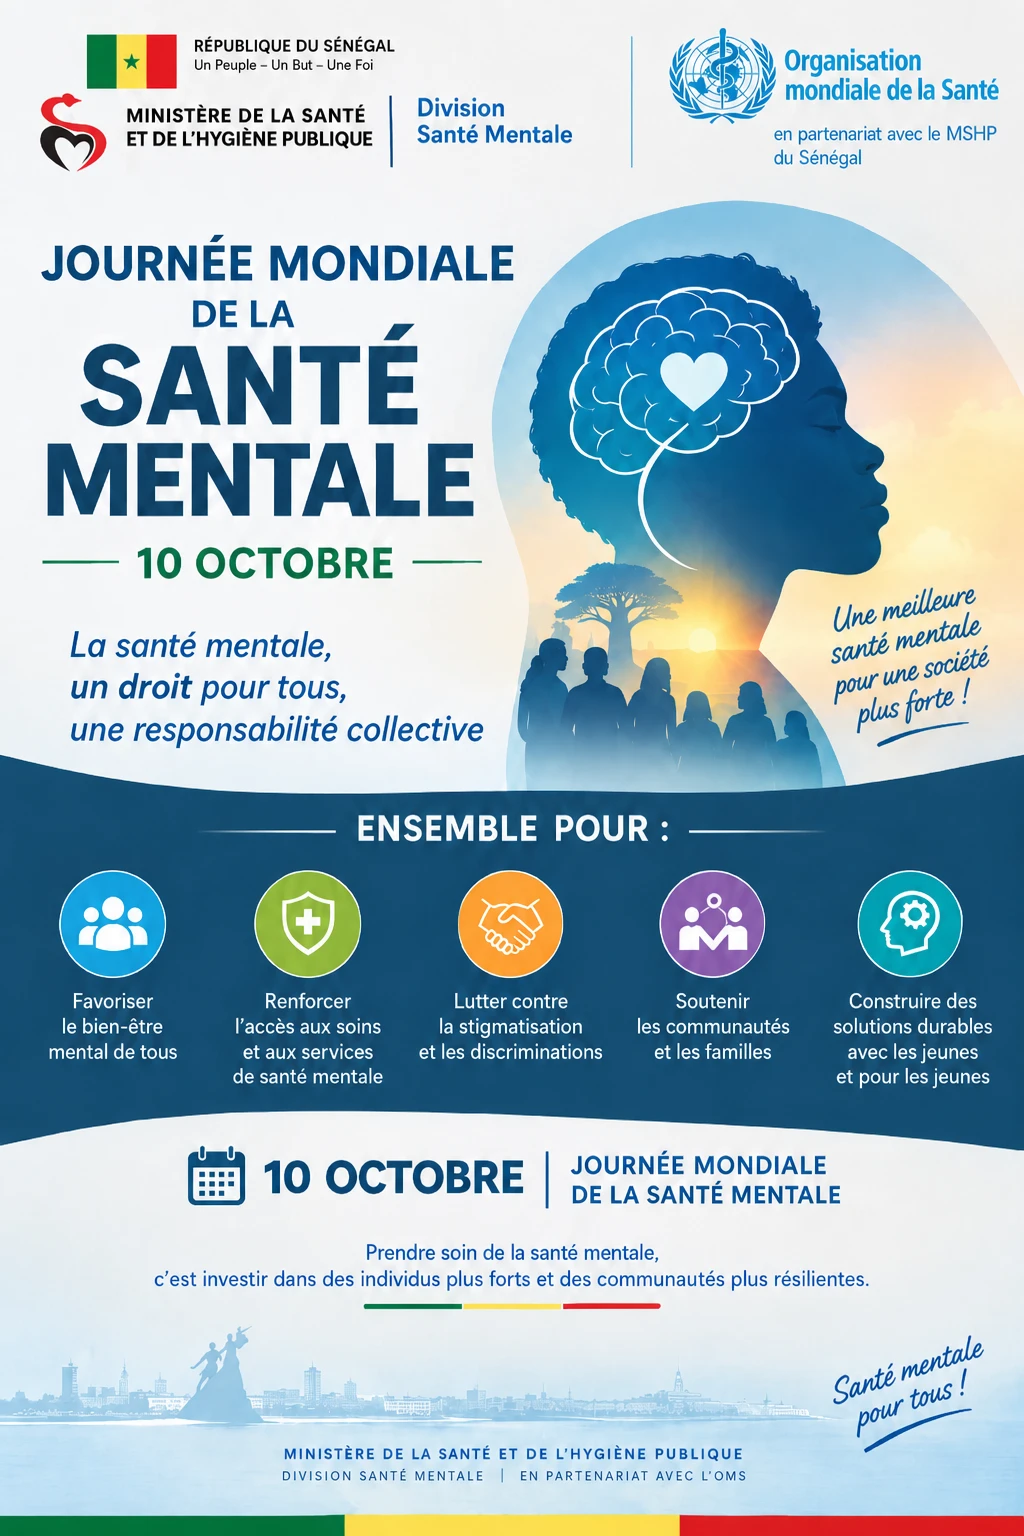
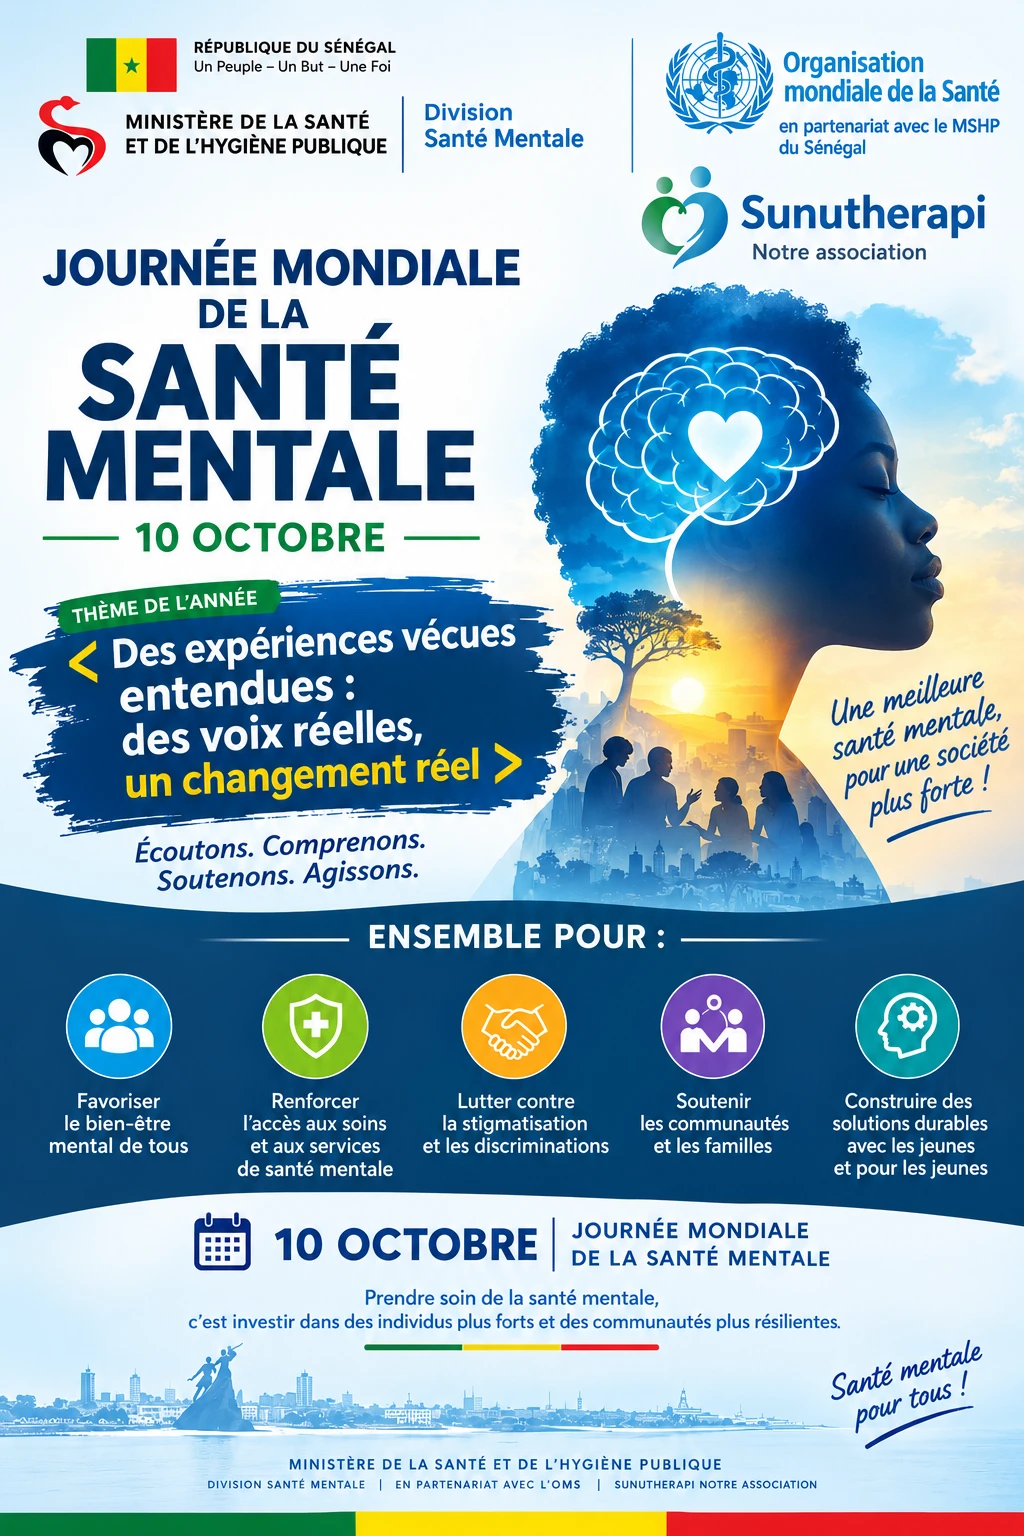
Accueil: nouvelle affiche du 10 octobre et theme de l'annee
L'affiche porte desormais le logo SunuTherapie aux cotes du MSHP et de
l'OMS, et le theme retenu : des experiences vecues entendues.

diff --git a/sunutherapie-api/resources/views/welcome.blade.php b/sunutherapie-api/resources/views/welcome.blade.php
@@ -268,8 +268,8 @@
     <img class="jm-aff" src="/images/parcours/affiche-10-octobre.webp" alt="Affiche de la Journée mondiale de la santé mentale, 10 octobre">
     <div class="jm-txt">
       <span class="jm-tag">10 octobre · Journée mondiale de la santé mentale</span>
-      <p class="jm-theme">« La santé mentale, un droit pour tous, une responsabilité collective »</p>
-      <p class="jm-org">Ministère de la Santé et de l'Hygiène Publique — Division Santé Mentale, en partenariat avec l'OMS</p>
+      <p class="jm-theme">« Des expériences vécues entendues : des voix réelles, un changement réel »</p>
+      <p class="jm-org">Ministère de la Santé et de l'Hygiène Publique — Division Santé Mentale, en partenariat avec l'OMS et SunuThérapie</p>
     </div>
     <a href="#parcours" class="jm-cta">Notre engagement</a>
   </div>
